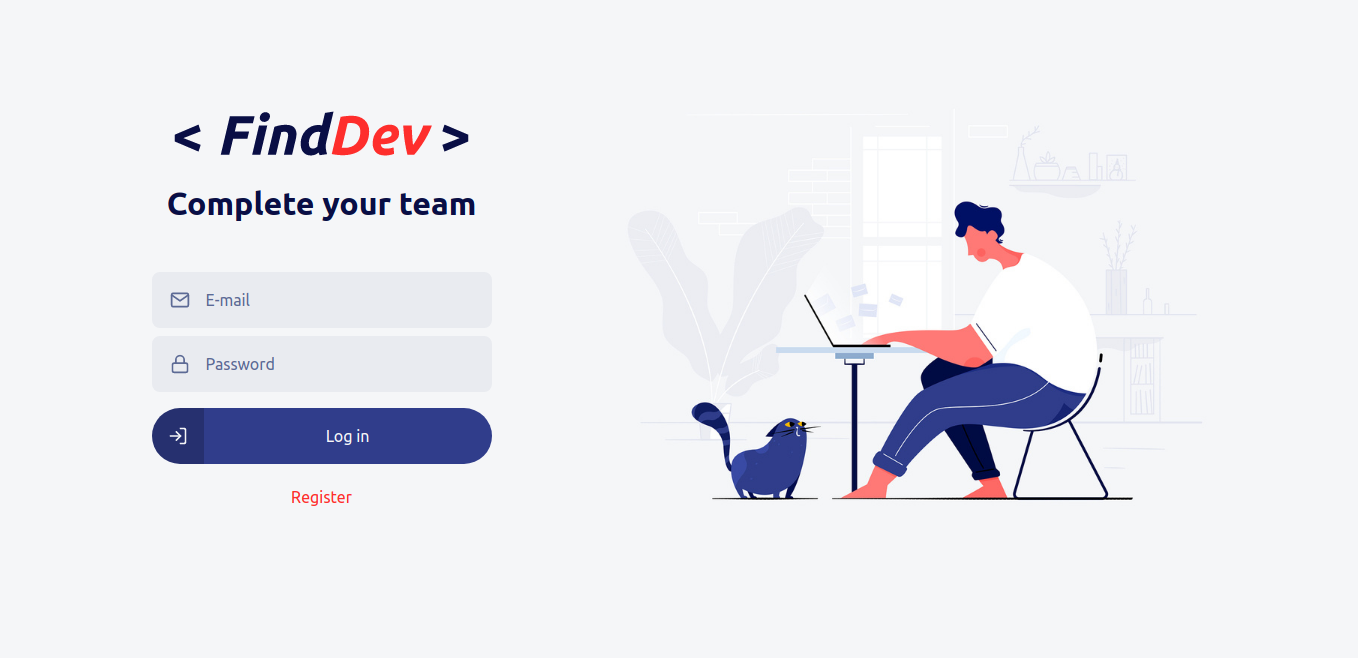
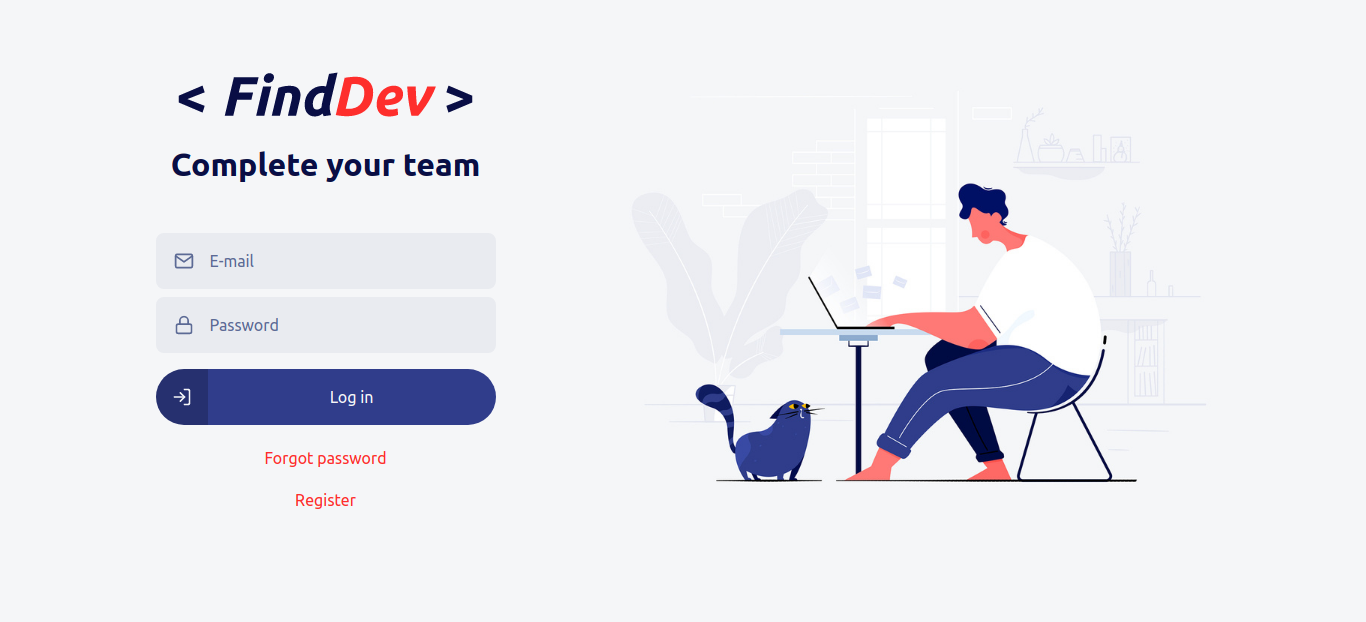
Update README.md

diff --git a/README.md b/README.md
@@ -38,6 +38,10 @@
 
 ![](/github/register.png)
 
+![](/github/forgot-password.png)
+
+![](/github/reset-password.png)
+
 ## 👍 Contribute <a name="contribute"/>
 
 - Fork this repository.
